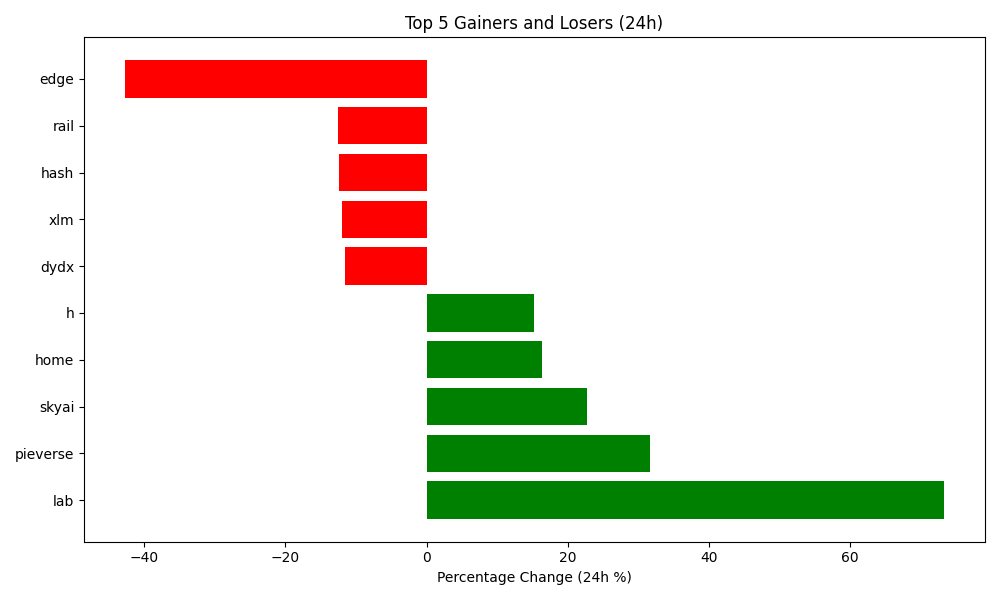
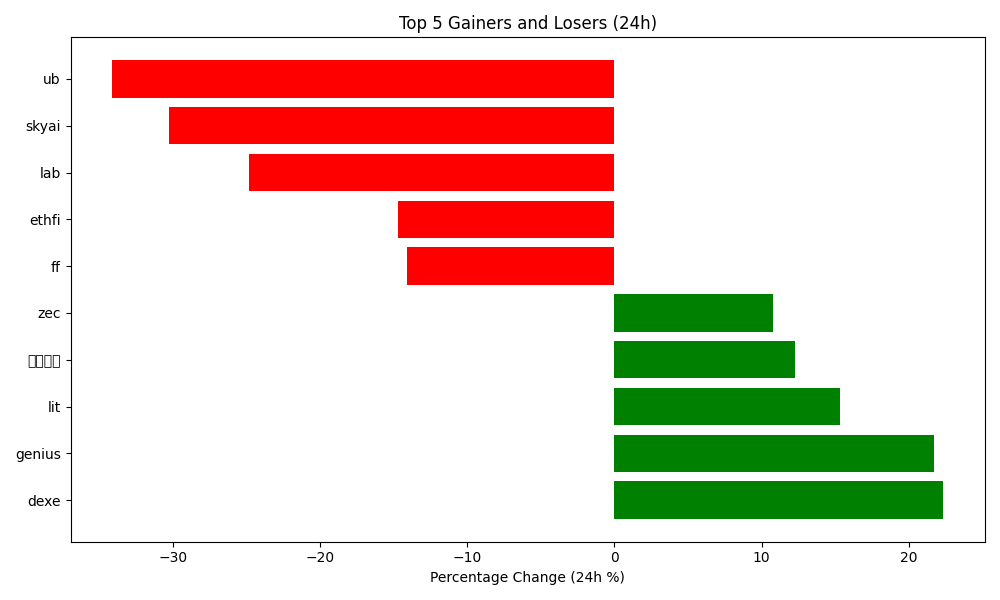
Auto-update crypto data and plot

diff --git a/README.md b/README.md
@@ -4,7 +4,7 @@ Author: Hitesh Agrawal
 This repository automatically tracks the top 5 gaining, top 5 losing, and top 5 highest volume cryptocurrencies in the last 24 hours using the CoinGecko API, Python, Matplotlib, and GitHub Actions updates the below content everyday at midnight.
 
 <!-- START_DYNAMIC_CONTENT -->
-Last updated: 2026-06-02 02:51 UTC
+Last updated: 2026-06-03 03:26 UTC
 
 ![Crypto Movers Plot](crypto_movers_plot.png)
 
@@ -12,33 +12,33 @@ Last updated: 2026-06-02 02:51 UTC
 
 | Rank | Coin | Price Change (24h %) | Volume (USD) | Current Price (USD) |
 | :--: | :--: | :------------------: | :----------: | :-----------------: |
-| 1 | lab | 73.31% | $247,440,673 | $17.5700 |
-| 2 | pieverse | 31.65% | $46,867,634 | $0.9377 |
-| 3 | skyai | 22.77% | $33,413,142 | $0.2075 |
-| 4 | home | 16.36% | $130,298,367 | $0.0457 |
-| 5 | h | 15.16% | $600,675,256 | $0.7470 |
+| 1 | dexe | 22.37% | $49,494,525 | $22.1400 |
+| 2 | genius | 21.70% | $57,633,367 | $0.5441 |
+| 3 | lit | 15.35% | $125,546,634 | $1.6300 |
+| 4 | 币安人生 | 12.25% | $60,033,725 | $0.6816 |
+| 5 | zec | 10.79% | $1,319,433,754 | $624.0100 |
 
 
 **👇 Top 5 Losers (24h)**
 
 | Rank | Coin | Price Change (24h %) | Volume (USD) | Current Price (USD) |
 | :--: | :--: | :------------------: | :----------: | :-----------------: |
-| 1 | edge | -42.73% | $53,048,272 | $0.7286 |
-| 2 | rail | -12.56% | $1,962,174 | $2.4500 |
-| 3 | hash | -12.38% | $23,770 | $0.0098 |
-| 4 | xlm | -11.97% | $1,130,112,257 | $0.2373 |
-| 5 | dydx | -11.59% | $8,677,517 | $0.1720 |
+| 1 | ub | -34.15% | $48,600,126 | $0.1257 |
+| 2 | skyai | -30.31% | $116,546,714 | $0.1560 |
+| 3 | lab | -24.88% | $183,733,110 | $14.1100 |
+| 4 | ethfi | -14.73% | $41,246,165 | $0.3293 |
+| 5 | ff | -14.12% | $19,731,914 | $0.0949 |
 
 
 **💎 Top 5 by Trade Volume (24h)**
 
 | Rank | Coin | Price Change (24h %) | Volume (USD) | Current Price (USD) |
 | :--: | :--: | :------------------: | :----------: | :-----------------: |
-| 1 | usdt | 0.00% | $80,420,925,521 | $0.9985 |
-| 2 | btc | -4.20% | $53,564,016,678 | $70,619.0000 |
-| 3 | eth | -1.10% | $17,037,495,581 | $1,987.4600 |
-| 4 | usdc | -0.02% | $16,913,636,676 | $0.9996 |
-| 5 | sol | -2.74% | $2,757,609,837 | $80.3100 |
+| 1 | usdt | 0.02% | $94,037,095,393 | $0.9987 |
+| 2 | btc | -6.39% | $62,523,190,686 | $66,342.0000 |
+| 3 | eth | -7.54% | $23,650,416,006 | $1,846.9900 |
+| 4 | usdc | 0.00% | $20,437,369,443 | $0.9997 |
+| 5 | sol | -8.21% | $3,985,322,542 | $74.0600 |
 
 
 <!-- END_DYNAMIC_CONTENT -->
